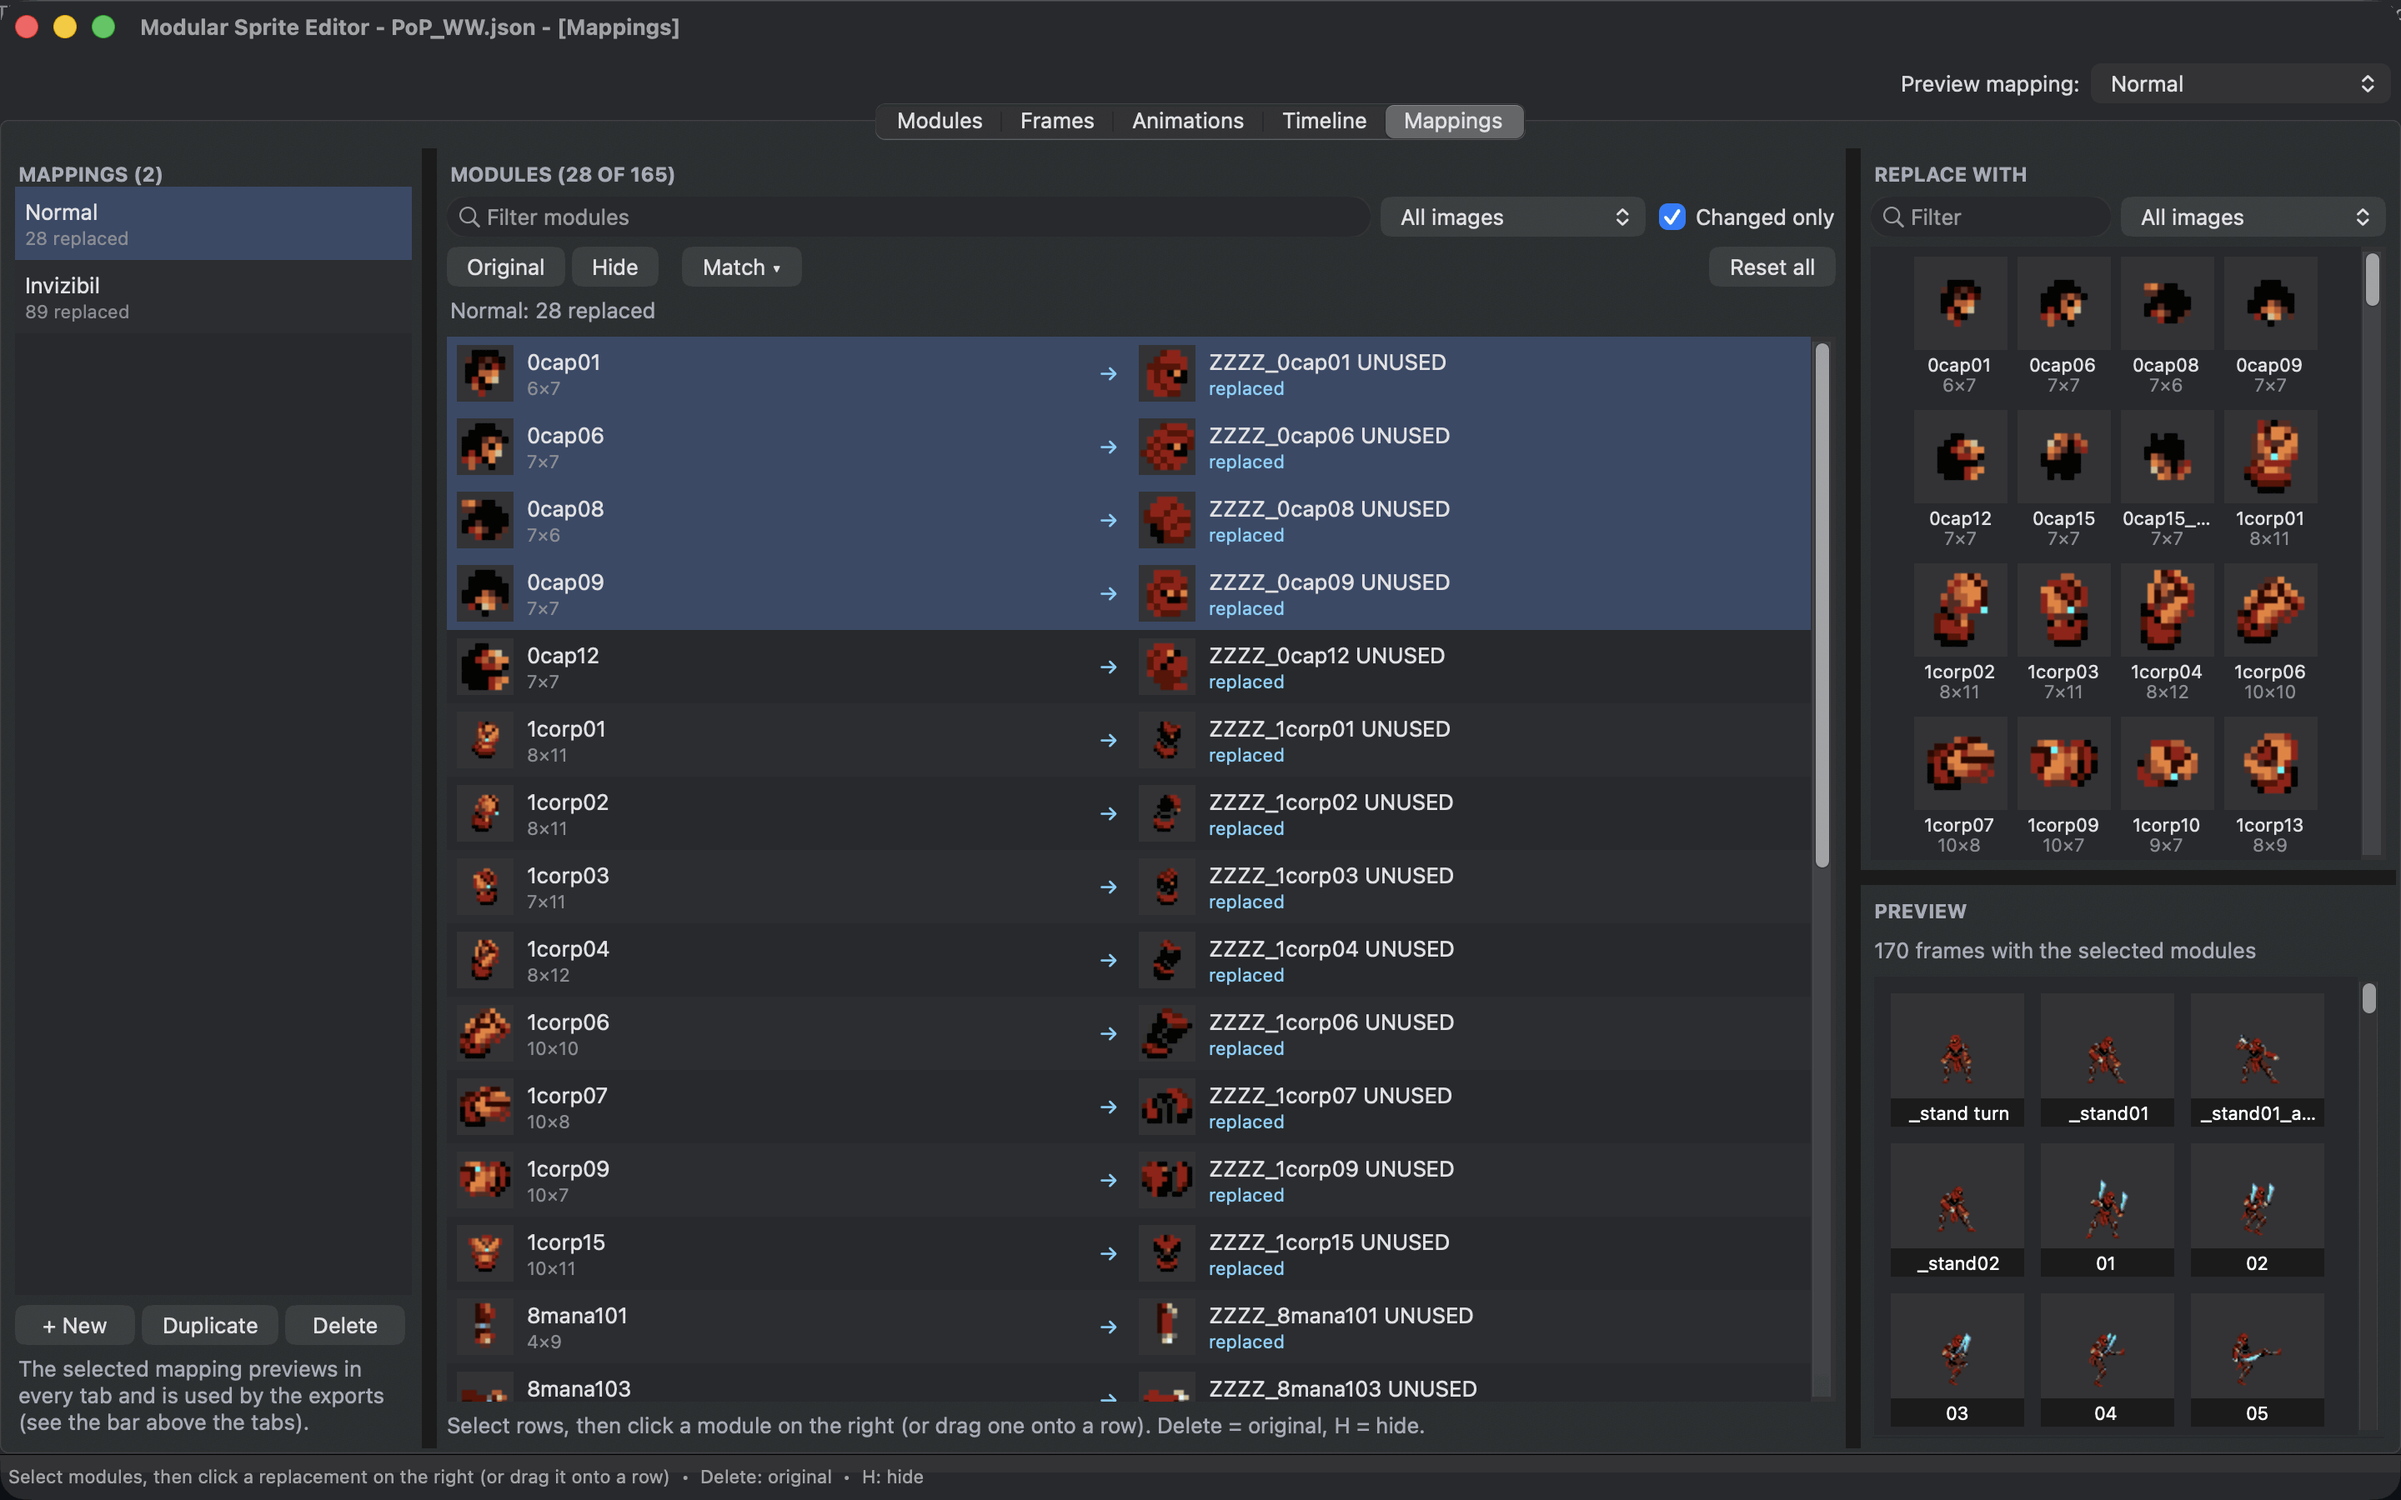
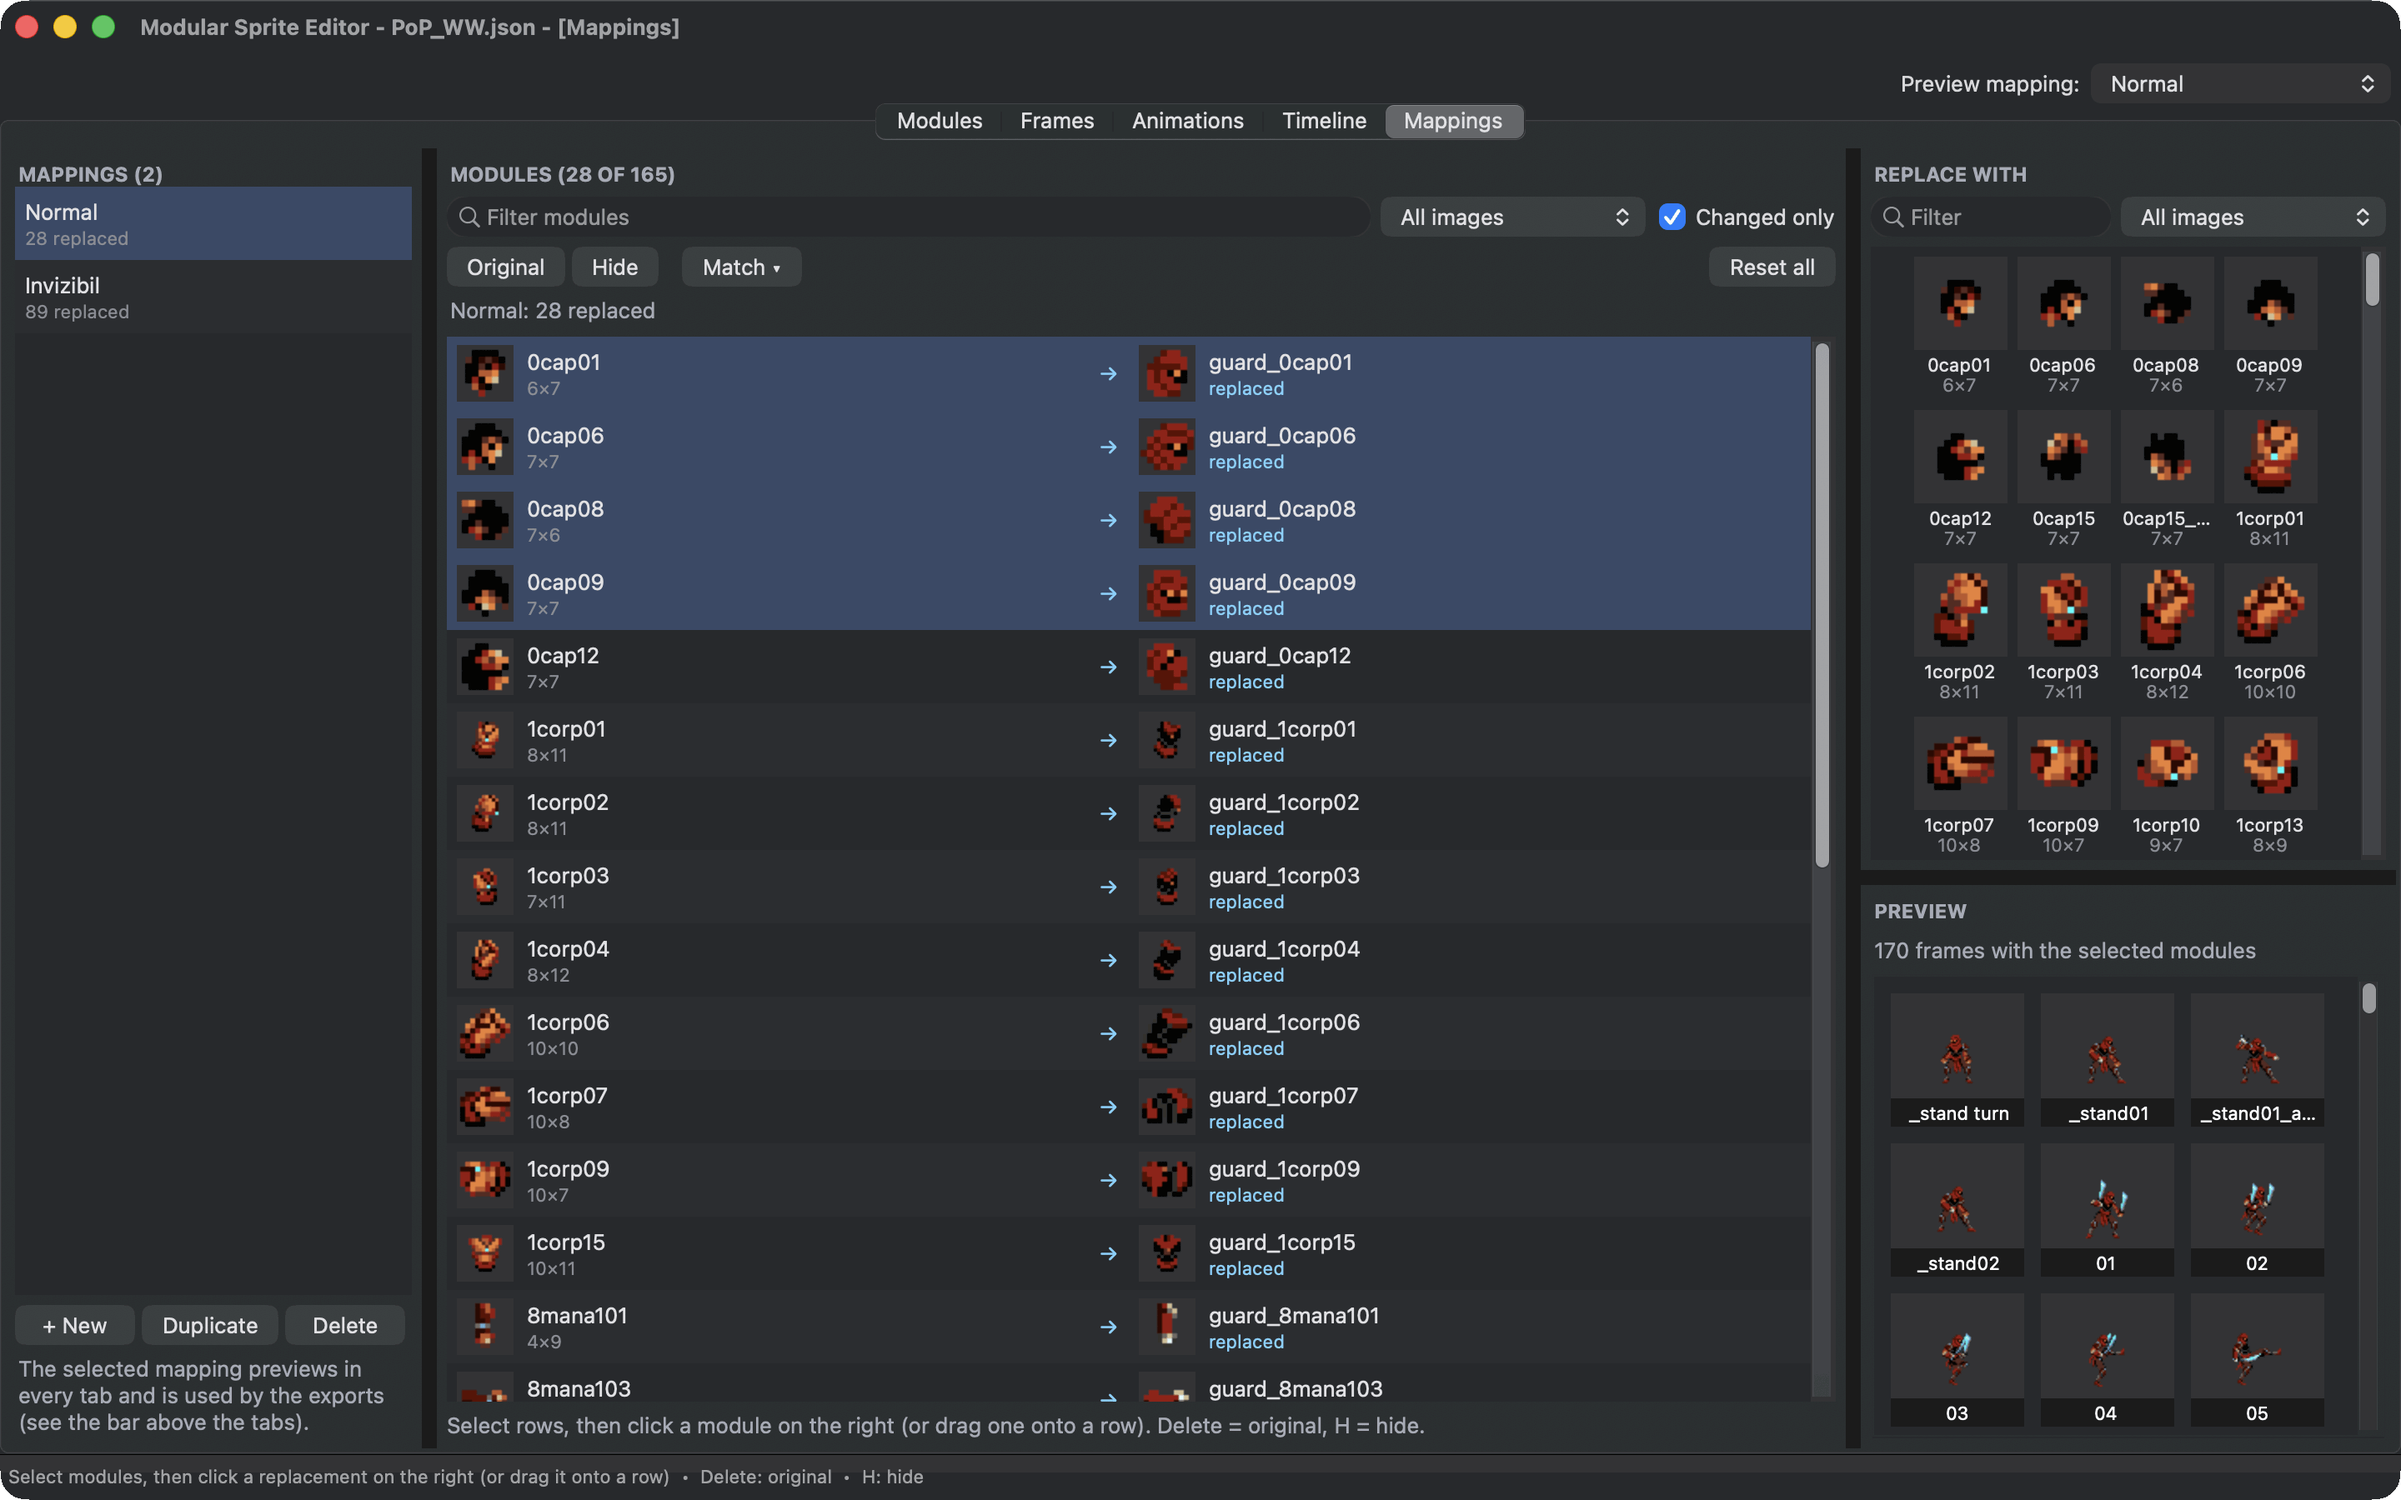
PoP example: the guard's modules are guard_..., not ZZZZ_... UNUSED (U7)
The 28 modules the guard's mapping uses are named guard_... (the six that no frame or mapping uses keep their
honest UNUSED). The SGDK demo's blob is exported again (it carries the names), and the guide's two Mappings
pictures are taken again.

diff --git a/docs/AUDIT_0.7.md b/docs/AUDIT_0.7.md
@@ -382,6 +382,9 @@ open.
 In PoP, the guard's replacement modules (used by the Normal mapping) are named `ZZZZ_… UNUSED`, which shows in the
 Mappings tab and on the guide's pictures. Rename them (`guard_…`) and regenerate the affected screenshots.
 
+**Done:** the 28 are `guard_…` (the six modules no frame or mapping uses keep their honest "UNUSED"), the SGDK demo's
+blob is exported again (it carries the names), and the guide's two Mappings pictures are taken again.
+
 ### U8 (Low) Smaller observations
 
 - The Timeline library's first tab reads "Animatio…" at the default width. **Done:** the column is as wide as in the
